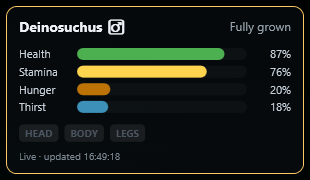
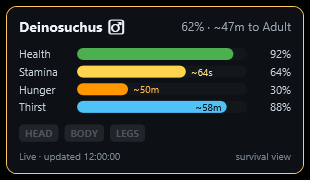
Release 1.42.0: the next-stage header, the tracking lines, the health label, Herbivore and Carnivore
The stats header counts to the next growth stage and the last stage is
Elder; a dashed line on both maps to the tracked waypoint and friend; a
time label on the health bar, both ways; two themes players asked for,
Herbivore and Carnivore; the Waypoints and Friends lists take the frame's
room; the nearest-waypoints markers no longer slide in from the corner.
Built by five parallel sessions on Nov 2, merged the same night, played
for a day by the owner, reviewed against the hard constraints (no
violation, no near miss). The README's hero and stats panel picture are
redrawn for 1.42.0.

diff --git a/CLAUDE.md b/CLAUDE.md
@@ -2,7 +2,7 @@
 
 Personal in-game overlay for The Isle: Evrima (Isla Pandora EU server): the
 player's own dino stats in always-on-top widgets, plus a minimap, the map, a
-tray icon and a settings dialog. **v1.41.0 is released, working, and endorsed
+tray icon and a settings dialog. **v1.42.0 is released, working, and endorsed
 by the server team.**
 
 **Where the detail lives.** This file holds only what applies everywhere, and
@@ -262,9 +262,11 @@ are in `PandoraClient.cs`, and Prime's and friends' gating in `PollService.cs`.
   (`rules.json`, `calibration.json`, `areas.png` + `areas.json`, `zones.json`;
   the CHANGELOG is embedded too, for the update card).
 - `Assets/Themes/` — one sparse file per theme but Default (`isle.json`,
-  `pandora.json`, `nightshade.json`): only what differs from Default, by
-  token path, and its fit factor. A new theme is one more file there and no
-  other change (Pandora, the third, was, and Nightshade, the fourth).
+  `pandora.json`, `nightshade.json`, `herbivore.json`, `carnivore.json`):
+  only what differs from Default, by token path, and its fit factor. A new
+  theme is one more file there and no other change (Pandora, the third,
+  was, and Nightshade, the fourth; Herbivore and Carnivore, the fifth and
+  sixth, were each designed and built by one session in an evening).
 - `Assets/Fonts/` — one folder per bundled family, its files and its own
   licence as shipped (`Montserrat/`: four weights; `Rajdhani/`: three;
   `Orbitron/`: one; `Nunito/`: four; `Cinzel/`: one; each with its
@@ -430,6 +432,54 @@ all) — say so when it matters:
   Settings open (nothing moved), the map's three name ticks, the waypoint
   dots staying put when a names tick flips, About's credit line in each
   theme, Skins in Nightshade without a scrollbar, and the log's fit line.
+- From 1.42.0 (no pre-release, the owner's call): the tracking line's glide
+  on a weaker PC, and the map's line on other display scales (the minimap's
+  renders only); whether a slow heal, under about 25 minutes per full bar
+  at 3 s polls, ever shows the health label (tests only); Herbivore and
+  Carnivore on other PCs and display scales (1.25× rendered only), their
+  update cards (a 1.42 copy first shows them at the next release), their
+  Skins tiles and Dino storage cards (the harness is signed out); the
+  "nearest" markers fix as a deliberate check (a test, and a day's play);
+  the Themes page's six rows on a small screen (a probe only). The owner
+  played a day on the merged build (Nov 2–3) and reported no glaring
+  issue, without a checklist: what was tried is not itemised.
+
+SHIPPED in 1.42.0 (Nov 3 2026, no pre-release, the owner's call; the five
+features built in one evening by five parallel Opus 5.5 sessions from the
+briefs in `Desktop\Pandora Overlay Files\pandora-four-features\`, merged
+the same night, the release pass run alone on the owner's word): **the
+growth header counts to the next stage** (`Stats/GrowthReadout.cs`: "64% ·
+~1h 20m to Adult", no "Growth", no decimal, the percent floored; "64%"
+while measuring, "64% · paused", "Elder" at 100%; the last stage is
+"elder" everywhere, the theme token `Growth.FullyGrown` keeping its name;
+the frame contract's header strings are the longest new forms); **the
+tracking lines** (`MapCanvas`: a dashed line from your arrow to the tracked
+waypoint and another to the tracked friend, in the target's own data
+colour, no casing, the ends moved with the arrow's and the marker's glides,
+a stub to the clamped marker in the centered view; no setting); **the
+health bar's time label** (`Stats/HealthTracker.cs`: "full ~14m" after two
+rising steps, "~3m" after four similar small drops and no spike of about
+2% within 30 s, shown under 60 min and kept to 65, stamina's format, both
+views, under the time-left tick, no cue); **Herbivore** (`herbivore.json`,
+"Forest": moss green and cream in Nunito, rounded, a quiet frame, honey
+amber for Prime Elder and the highlights, the bullet ❧, Fit 0.97) and
+**Carnivore** (`carnivore.json`, "Blood and bone": crimson in Rajdhani, cut
+corners and hexagons, two lit corners, the under-25% state bone-white with
+its halo, old gold, the bullet ◆, Fit 1.00), each designed on a canvas the
+owner approved inside the session that built it (`pandora-themes\
+HERBIVORE.md`, `CARNIVORE.md`); the Waypoints and Friends lists taking the
+frame's room; and a fix found on the way: under the "nearest" policy a
+rebuilt set of markers glided in from the panel's corner (`Marker.Fresh`
+and the carry-over, as friends had). Found and fixed at the merge: the two
+repo-wide theme scans walked into the app's worktrees under `.claude` (they
+skip it now), and the golden harness's project took main's build whatever
+`-Repo` said (both run scripts set `OverlayDir`/`OverlayRepo` now; the
+five sessions had worked round it). Clear, the colour-blind theme, stays
+designed and unbuilt (the owner, Nov 2: not now). Guards: 1051 tests;
+Default re-recorded in both modes after the owner's day of play (the
+header text, the 13 tracking scenarios, the Themes page's rows, the
+reworded time-left tick), Herbivore's and Carnivore's baselines recorded
+then too.
 
 SHIPPED in 1.41.0 (Oct 30 2026, no pre-release, the owner's call): **the
 fit factor** (`pandora-themes\FIT.md`), **Nightshade**, the fourth theme,
@@ -682,6 +732,14 @@ Themes (Oct 24–25 2026)
 - An `Effect` for a glow (measured: a live DropShadowEffect halves WPF's
   frame rate); a theme's own XAML (a theme picks from the shape catalogue).
 
+The four-features brainstorm (Nov 2–3 2026)
+- A "Waypoint here" hotkey and a "Copy my spot" hotkey: "there's already
+  enough" hotkeys.
+- A fight summary line in Activity: the tracker sees health drop, not why,
+  so starvation or a fall would be summed up as a fight.
+- Player theme files loaded from a folder before the theme editor exists:
+  it waits for the editor.
+
 ## Conventions
 
 - Code-behind over MVVM — deliberate at this size; don't introduce frameworks.
@@ -766,7 +824,7 @@ Themes (Oct 24–25 2026)
 
 ## Releases
 
-- Current: 1.41.0. The csproj `<Version>` is the single source of truth
+- Current: 1.42.0. The csproj `<Version>` is the single source of truth
   (SemVer: features bump minor, fixes patch); each release is an annotated
   `vX.Y.Z` tag, and pushing it runs `.github/workflows/release.yml`.
 - Never bump the version or tag a release without the owner's explicit "do

diff --git a/README.md b/README.md
@@ -9,7 +9,7 @@ It is **fully external**: everything it does goes through the same logged-in HTT
 [![Downloads](https://img.shields.io/github/downloads/DavidKatona/PandoraOverlay/total)](https://github.com/DavidKatona/PandoraOverlay/releases)
 [![License: MIT](https://img.shields.io/github/license/DavidKatona/PandoraOverlay)](LICENSE)
 
-![The overlay in-game in the Nightshade theme (violet and black, Cinzel titles over the rounded Nunito font, a pink light on two corners of every frame, round controls), in edit mode in the default two-column layout over a roaring Tyrannosaurus in a moonlit swamp forest: the Prime tracker ("Not ready · 3/10", the ten conditions as a ✓/✗ list) and the Activity feed (a skin applied, a Prime check, the spawn in the Swamps, "Hunger under 20%" in red) top-left, the player-centred minimap with its pill naming the area, "Swamps", and the stats panel in its Survival view (growth 40%, health, stamina and thirst as violet bars, hunger at 13% in red, the three fracture badges) top-right, and the control panel at the bottom. A caption box in the same look names version 1.41.0 and what is new: the Nightshade theme, violet and black; the map, a tick each for area, waypoint and friend names](docs/screenshot.png)
+![The overlay in-game, in edit mode, in the default two-column layout: the Prime tracker and the Activity feed top-left, the player-centred minimap and the stats panel in its Combat view top-right, and the control panel bottom-centre, over a Deinosuchus resting on a beach at sunset; the minimap's pill names the area, "South Plains", with the heatmap and the area borders on, and the Activity feed reads "You spawned as Deinosuchus 100% · South Plains". A caption box names version 1.42.0 and what is new: the Herbivore and Carnivore themes, a line to what you track, a health timer, and a header that counts to your next growth stage](docs/screenshot.png)
 
 
 ## Contents
@@ -97,7 +97,7 @@ What is kept is only the website session, encrypted with **Windows DPAPI** (scop
 
 ### Stats panel
 
-![The stats panel in edit mode: a fully grown male Deinosuchus, the four stat bars — health 87%, stamina 76%, hunger 20%, thirst 18% — the three dim fracture badges, and the live status line](docs/stats-panel.png)
+![The stats panel in edit mode: a male Deinosuchus at 62% growth with "~47m to Adult" in the header, the four stat bars — health 92%, stamina 64% with "~64s", hunger 30% with "~50m", thirst 88% with "~58m" — the three dim fracture badges, and the live status line](docs/stats-panel.png)
 
 - The stats panel can be **hidden** entirely (control panel → Stats → Show/hide) — the app keeps running from the tray, and hotkeys and the minimap stay live. Its size is adjustable with the Scale slider in Settings → Widgets.
 

diff --git a/CHANGELOG.md b/CHANGELOG.md
@@ -5,7 +5,7 @@ All notable changes to this project are documented in this file.
 The format is based on [Keep a Changelog](https://keepachangelog.com/en/1.1.0/),
 and this project adheres to [Semantic Versioning](https://semver.org/spec/v2.0.0.html).
 
-## [Unreleased]
+## [1.42.0] - 2026-11-03
 
 ### Added
 
